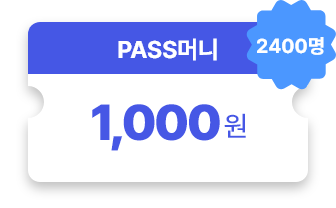
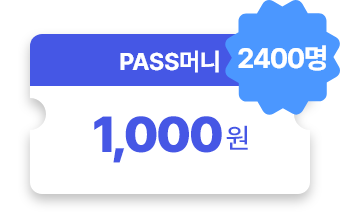
이미지 크기 수정.

diff --git a/event/ev_240705_privacy/html/ev_privaacy_240705.html b/event/ev_240705_privacy/html/ev_privaacy_240705.html
@@ -61,7 +61,7 @@
 		/* // 이벤트 메인 컨텐츠 */
 
 		/* 이벤트 내부 컨텐츠 */
-		.ev_privacy_wrap {margin-top:0.83333em; padding:2.08333em 1.91666em; border-radius:0.83333em; background-color:#F2F2F2; text-align:center;}
+		.ev_privacy_wrap {margin-top:0.83333em; padding:2.08333em 1.79166em; border-radius:0.83333em; background-color:#F2F2F2; text-align:center;}
 		.ev_privacy_wrap > p.txt {font-weight:bold;}
 		.ev_privacy_wrap > div.img {display:inline-block; width:13.33333em; margin-top:2.08333em;}
 		.ev_privacy_wrap div.subTit {}
@@ -76,8 +76,8 @@
 		.passmoney_wrap .item {display:inline-block;}
 		.passmoney_wrap .item strong {display:block;}
 		.passmoney_wrap .item span {display:block; margin-top:0.625em; font-size:0.66666em; line-height:1.1875em; font-weight:500;}
-		.passmoney_wrap .item:first-of-type {display:block; width:9.5em; margin:0 auto;}
-		.passmoney_wrap .item:first-of-type ~ div.item {width:7em;}
+		.passmoney_wrap .item:first-of-type {display:block; width:9.58333em; margin:0 auto;}
+		.passmoney_wrap .item:first-of-type ~ div.item {width:7.08333em;}
 		/* // 이벤트 혜택 아이템 */
 
 		/* 서비스 리스트 */
